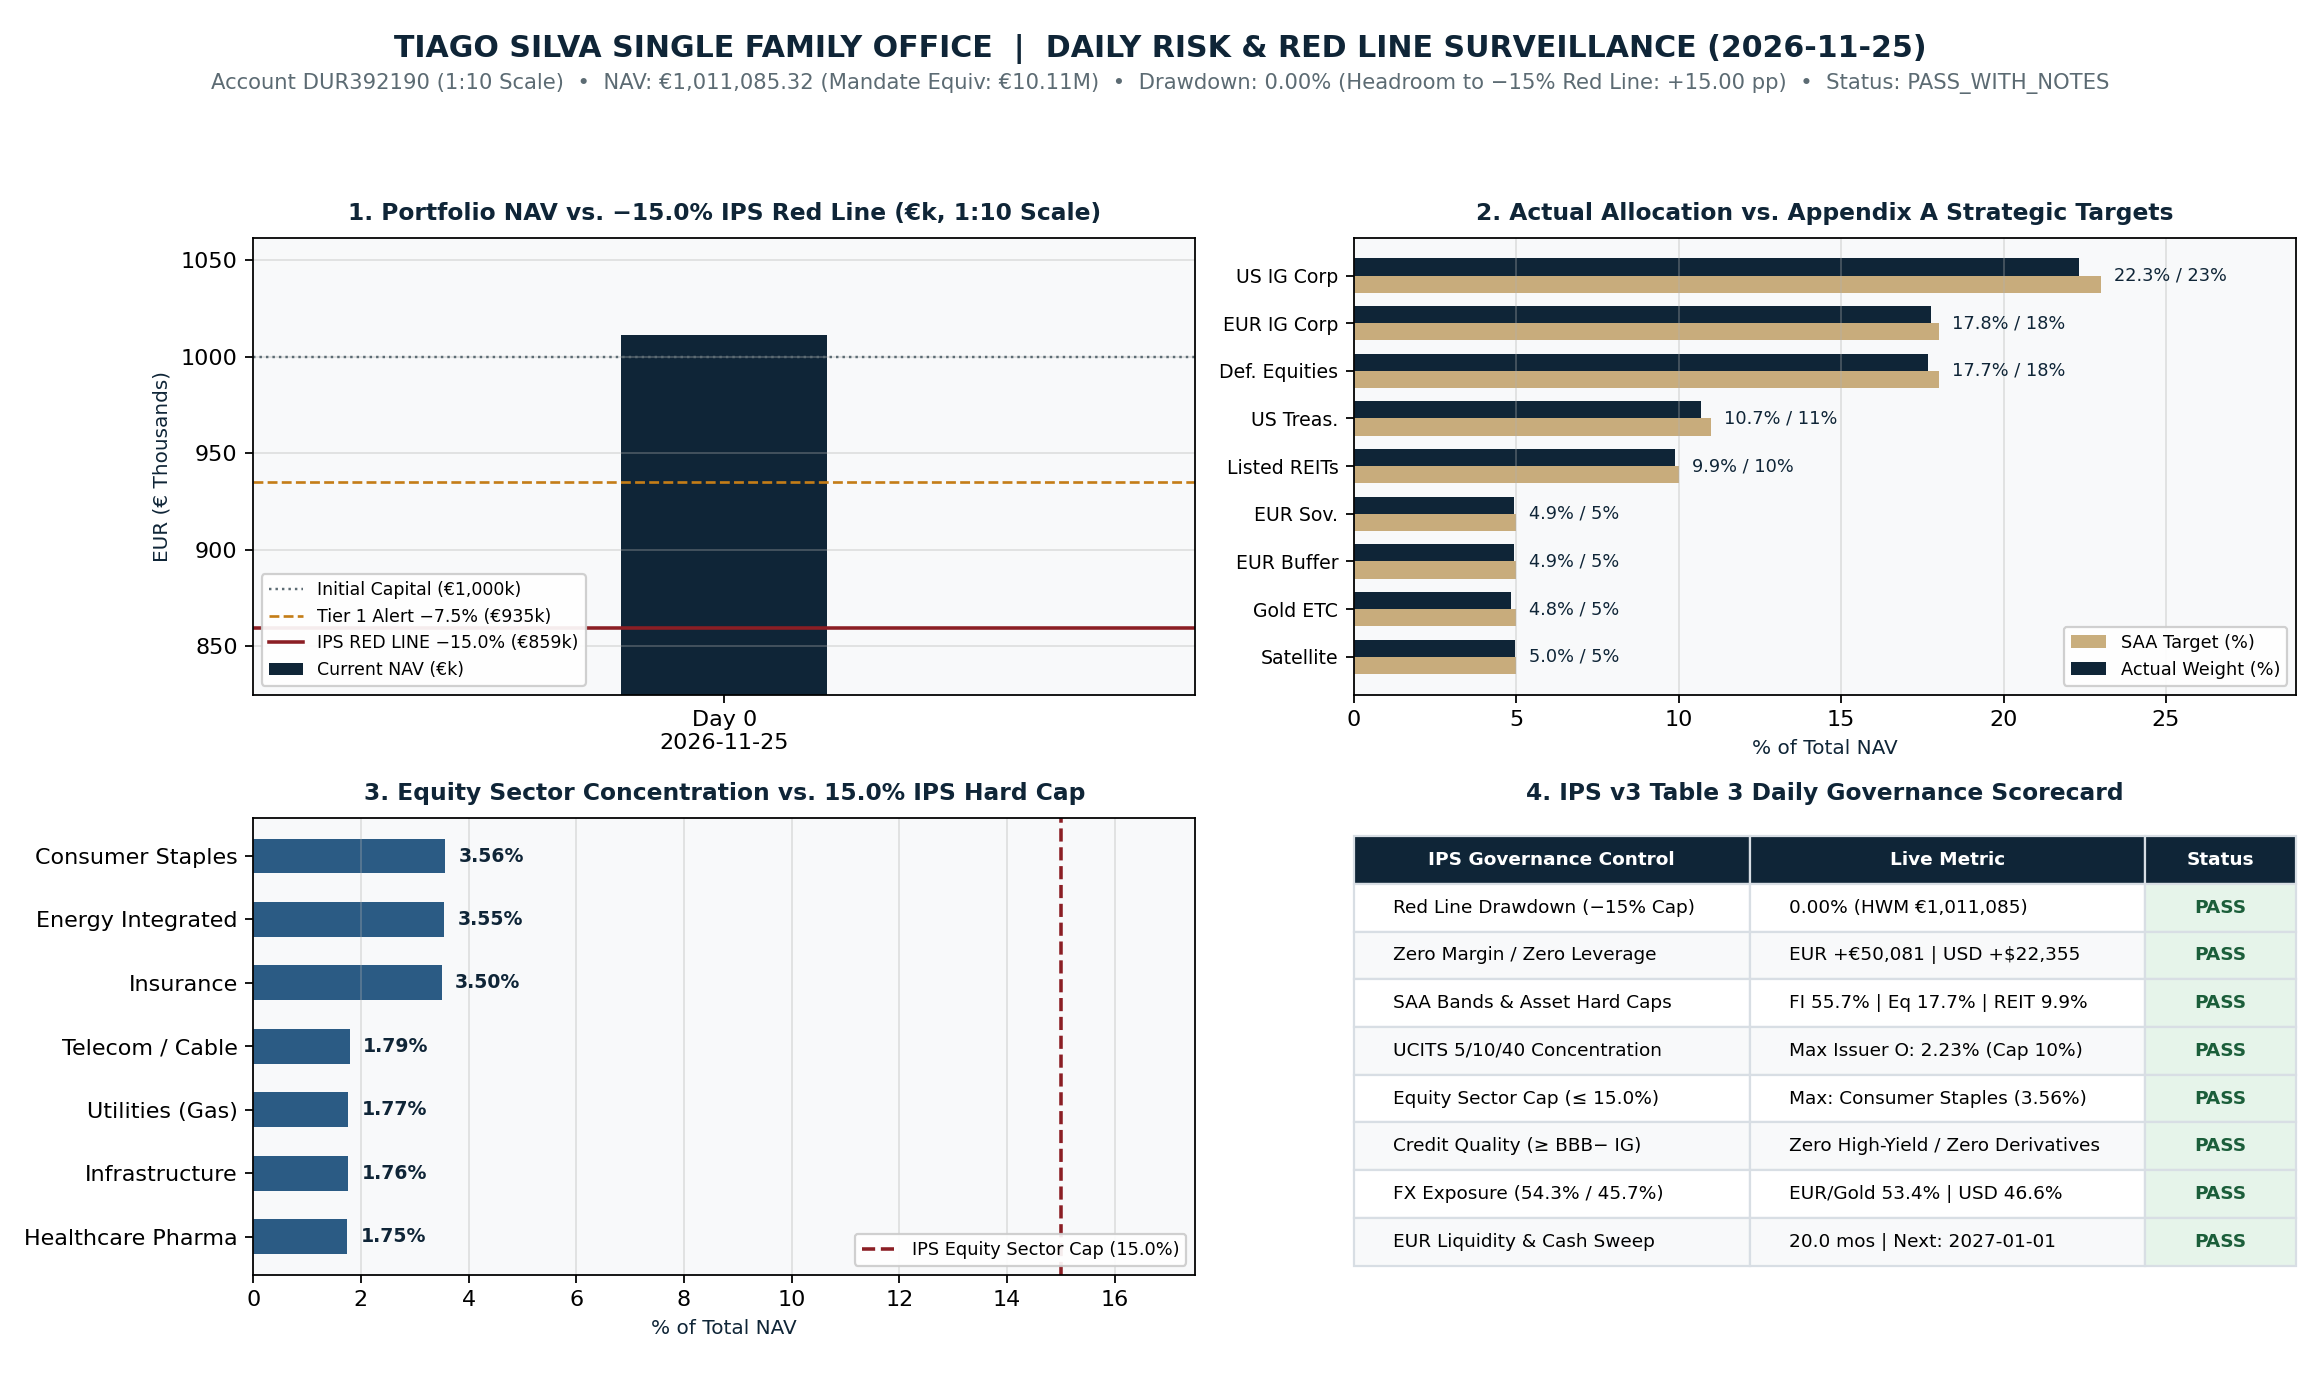
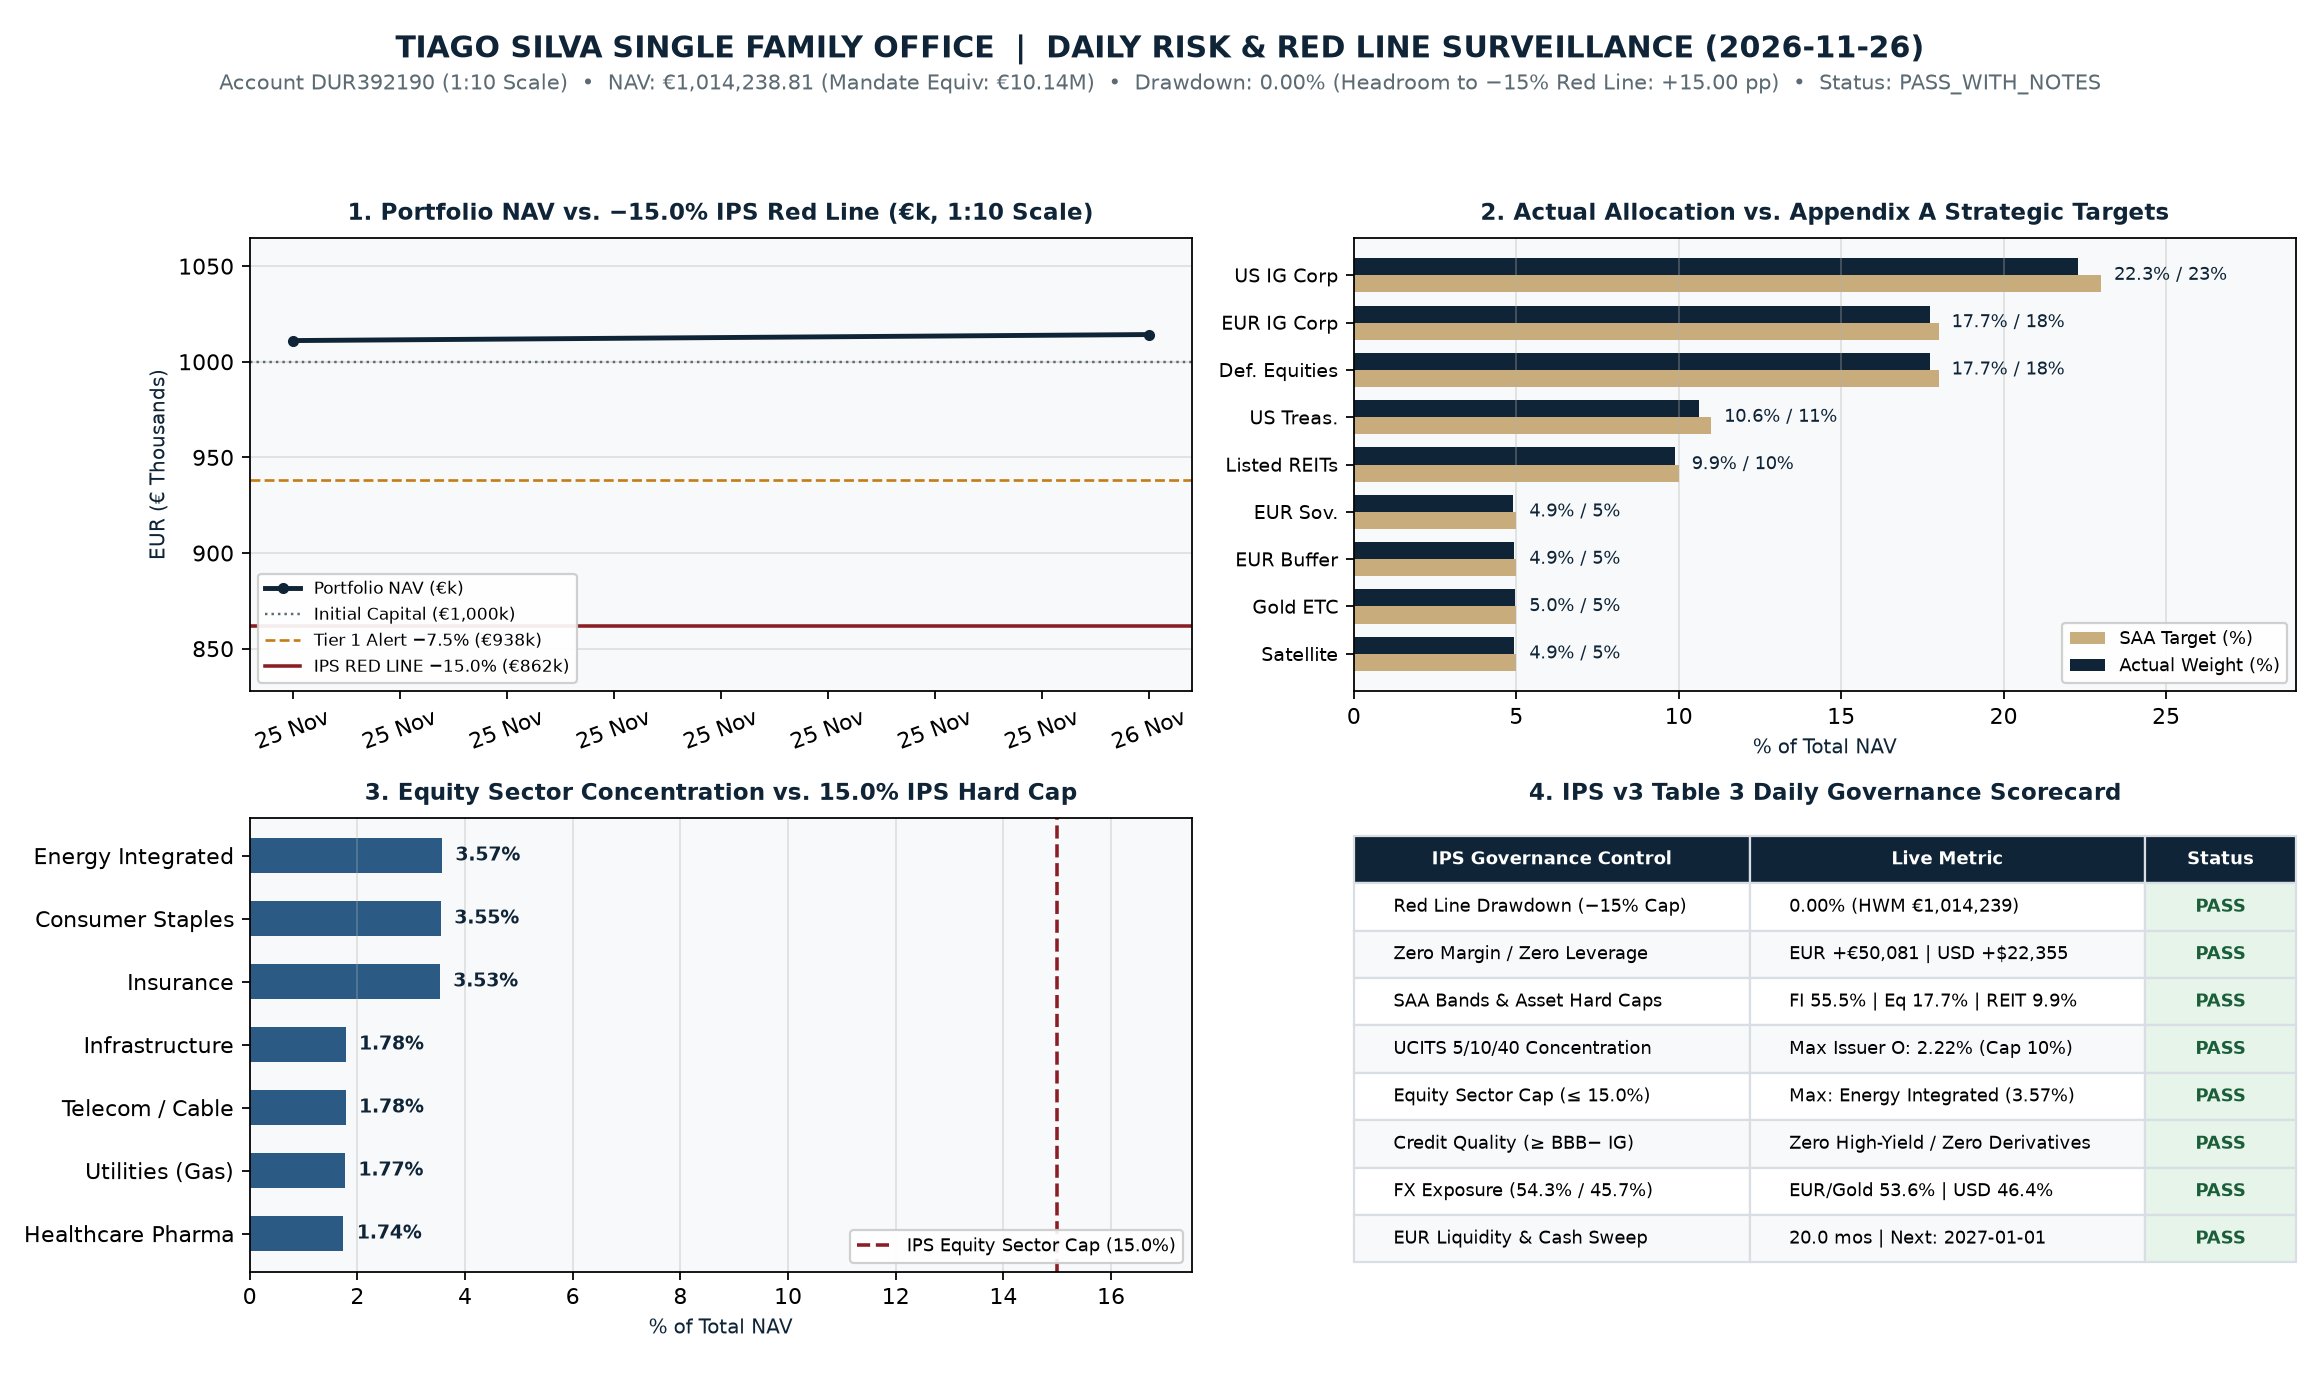
chore: daily risk surveillance snapshot 2026-11-26

diff --git a/README.md b/README.md
@@ -6,18 +6,18 @@ Automated daily portfolio surveillance engine (**Deliverable 4 / Appendix C**) m
 
 ---
 
-## Live Portfolio Telemetry (`2026-11-25` · `IBKR_DAY0_RECONCILED`)
+## Live Portfolio Telemetry (`2026-11-26` · `LIVE_API_YFINANCE`)
 
 | Metric | Demo Account (`1:10`) | Mandate Equivalent (`€10M`) | IPS Benchmark / Rule |
 | :--- | :---: | :---: | :--- |
-| **Net Asset Value (NAV)** | **€1,011,085.32** | **€10,110,853.20** | Initial: €1,000,000 / €10,000,000 (`+1.11%`) |
-| **High-Water Mark (HWM)** | €1,011,085.32 | €10,110,853.20 | Cash-flow adjusted peak |
+| **Net Asset Value (NAV)** | **€1,014,238.81** | **€10,142,388.06** | Initial: €1,000,000 / €10,000,000 (`+1.42%`) |
+| **High-Water Mark (HWM)** | €1,014,238.81 | €10,142,388.10 | Cash-flow adjusted peak |
 | **Peak-to-Trough Drawdown** | **`0.00%`** | **`0.00%`** | **Red Line Cap: −15.0%** (Headroom: `+15.00 pp`) |
 | **Cash Balances (Zero Margin)** | `EUR +€50,081.47` · `USD +$22,355.03` | `EUR +€500,815` · `USD +$223,550` | Status: **`PASS`** (Zero Leverage / Shorting) |
-| **FX Exposure (`EUR/USD = 1.0975`)** | `EUR/Gold 53.4%` · `USD 46.6%` | `EUR/Gold 53.4%` · `USD 46.6%` | Target: `54.3% EUR/Gold` / `45.7% USD` |
-| **EUR Liquidity Buffer (`IEGE`)** | €49,940.86 (`4.94%`) | €499,409 (`20.0 mos`) | Min: €500k (Alert ≤ €450k) · Next Sweep: `2027-01-01` |
-| **UCITS 5/10/40 & Sector Cap** | Max Issuer `O` (`2.23%`) | Max Sector `Consumer Staples` (`3.56%`) | Caps: `10%` Single Issuer · `15%` Equity Sector |
-| **Overall Governance Verdict** | **`PASS_WITH_NOTES`** | **`PASS_WITH_NOTES`** | Updated `2026-11-26T10:58:24Z` |
+| **FX Exposure (`EUR/USD = 1.0975`)** | `EUR/Gold 53.6%` · `USD 46.4%` | `EUR/Gold 53.6%` · `USD 46.4%` | Target: `54.3% EUR/Gold` / `45.7% USD` |
+| **EUR Liquidity Buffer (`IEGE`)** | €49,942.87 (`4.92%`) | €499,429 (`20.0 mos`) | Min: €500k (Alert ≤ €450k) · Next Sweep: `2027-01-01` |
+| **UCITS 5/10/40 & Sector Cap** | Max Issuer `O` (`2.22%`) | Max Sector `Energy Integrated` (`3.57%`) | Caps: `10%` Single Issuer · `15%` Equity Sector |
+| **Overall Governance Verdict** | **`PASS_WITH_NOTES`** | **`PASS_WITH_NOTES`** | Updated `2026-11-26T11:11:23Z` |
 
 ![Red Line Daily Dashboard](output/red_line_dashboard.png)
 
